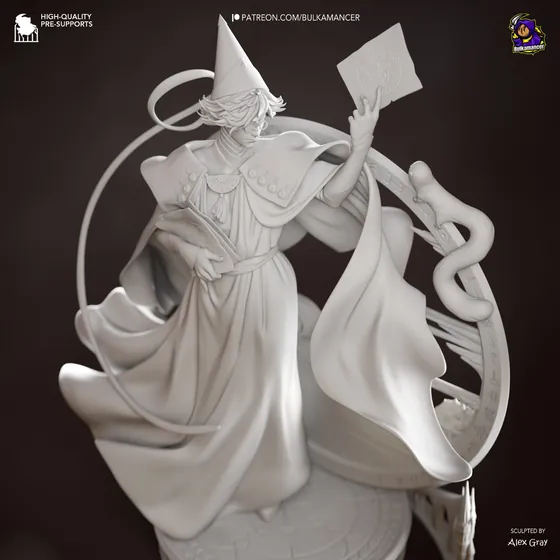
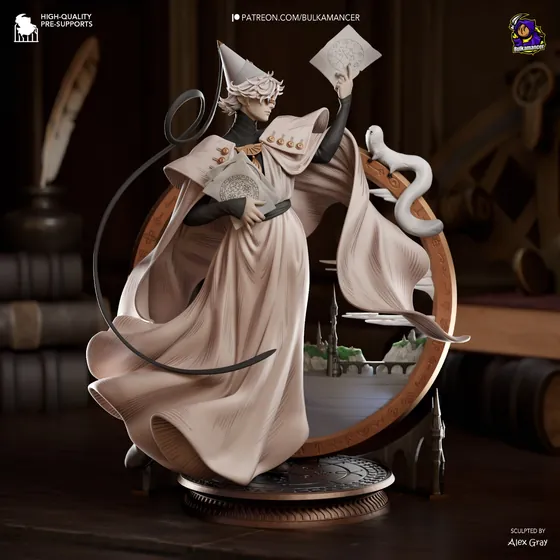
Tira do site os renders em argila cinza
A galeria misturava dois tipos de imagem do estudio: a arte de divulgacao
pintada e o render em argila cinza, que e a malha sem pintura nenhuma. No
meio das outras a cinza nao le como "escultura crua", le como peca que
chegou sem acabamento -- e quem esta comprando colecionavel pintado a mao
quer ver o resultado pintado.

Saem 12 fotos de quatro pecas: Frieren (7 -> 2), Roy Mustang Ferido
(7 -> 2), Qifrey (8 -> 7) e Roy Mustang (7 -> 6). As que ficaram foram
renumeradas para a sequencia seguir continua, que e o que o `fotos()` do
site.ts espera.

As 11 pecas do lote de 15/09 nao mudam: as pastas do Drive so trazem
`*_color`, entao ja entraram pintadas.

A capa de toda peca continua sendo a `-01`, que em nenhum dos quatro casos
era cinza -- os cards de link em `public/og/` saem identicos.

Claude-Session: https://claude.ai/code/session_019ni4z4VrMkwThzqruLoEbM

diff --git a/src/data/site.ts b/src/data/site.ts
@@ -169,7 +169,7 @@ export const pecas: Peca[] = [
     serie: 'Fullmetal Alchemist',
     escultor: 'KAI',
     estudio: 'Bulkamancer Sculpts',
-    fotos: fotos('roy_mustang', 7),
+    fotos: fotos('roy_mustang', 6),
     badges: ['Sob encomenda'],
     chamada:
       'O estalo dos dedos é a única coisa que ele precisa fazer. O resto da cena — o círculo aceso no chão, o casaco erguido pelo calor — é consequência.',
@@ -186,7 +186,7 @@ export const pecas: Peca[] = [
     serie: 'Fullmetal Alchemist',
     escultor: 'KAI',
     estudio: 'Bulkamancer Sculpts',
-    fotos: fotos('mustang_dodoi', 7),
+    fotos: fotos('mustang_dodoi', 2),
     badges: ['Sob encomenda'],
     chamada:
       'A mesma alquimia, depois do preço: o uniforme rasgado, o corpo marcado e a postura que insiste em ficar de pé.',
@@ -203,7 +203,7 @@ export const pecas: Peca[] = [
     serie: 'Witch Hat Atelier',
     escultor: 'Alex Gray',
     estudio: 'Bulkamancer Sculpts',
-    fotos: fotos('qifrey', 8),
+    fotos: fotos('qifrey', 7),
     badges: ['Sob encomenda'],
     chamada:
       'O mago em pleno gesto, com o manto girando e o aro da base suspendendo a água. A magia aqui é desenho, e a escultura trata disso.',
@@ -220,7 +220,7 @@ export const pecas: Peca[] = [
     serie: 'Frieren e a Jornada para o Além',
     escultor: 'YoruNoAme',
     estudio: 'Bulkamancer Sculpts',
-    fotos: fotos('frieren', 7),
+    fotos: fotos('frieren', 2),
     badges: ['Sob encomenda'],
     chamada:
       'A maga elfa que atravessou séculos, retratada num instante de calma: o manto aberto, o cajado em arco e nenhuma pressa.',

diff --git a/README.md b/README.md
@@ -91,6 +91,12 @@ Nas pastas do estúdio vem junto uma `*_dimensions.jpg`: **essa não entra no
 site**. Ela serve só para tirar a medida do modelo e calcular a escala, que vão
 para a ficha da peça no `site.ts`.
 
+Também não entra render em argila cinza — a peça sem pintura nenhuma, só a
+malha iluminada. Ela mostra o volume da escultura, mas quem está comprando
+quer ver a peça pintada, e no meio da galeria a foto cinza lê como peça que
+chegou sem acabamento. **Só vão para o site as fotos do produto pintado**; nas
+pastas do Drive elas são as `*_color (N).jpg`.
+
 A logo em `public/images/` foi extraída do JPEG original com o fundo removido
 por alfa, e separada em marca (`logo-mark`), wordmark (`logo-wordmark`) e
 lockup completo (`logo-full`). O header usa marca + wordmark na horizontal
